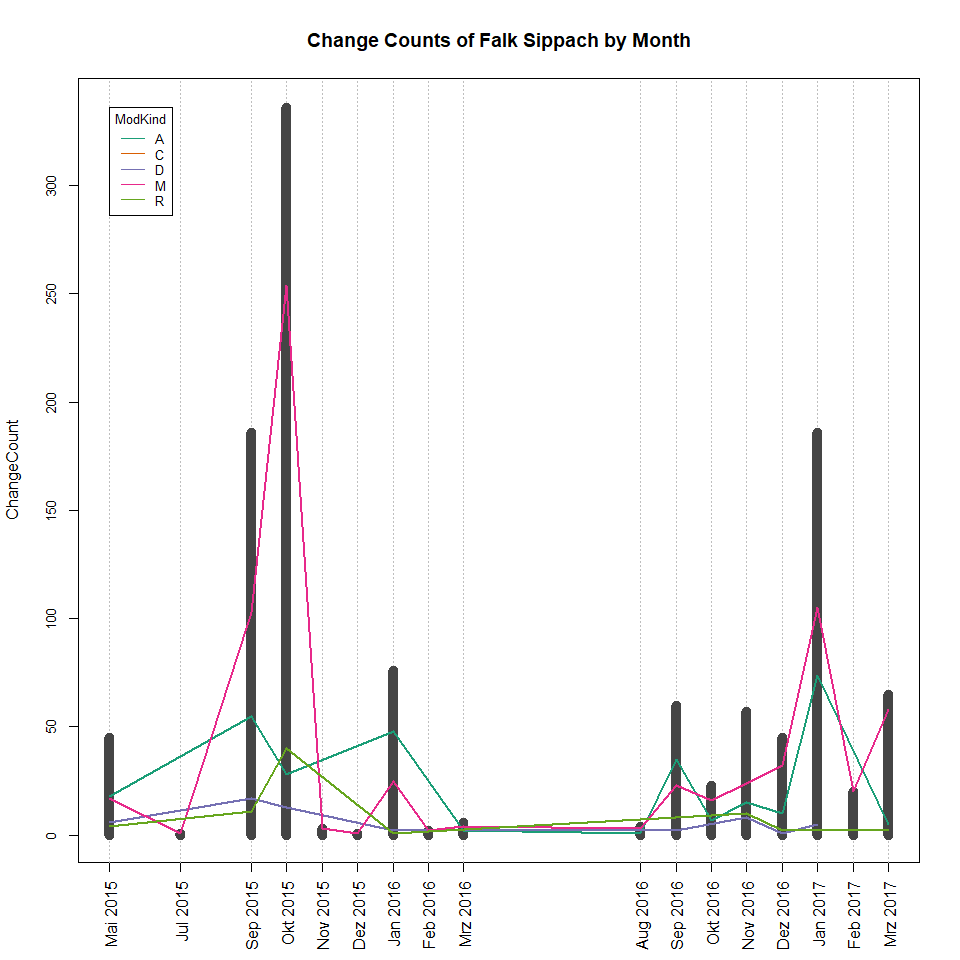
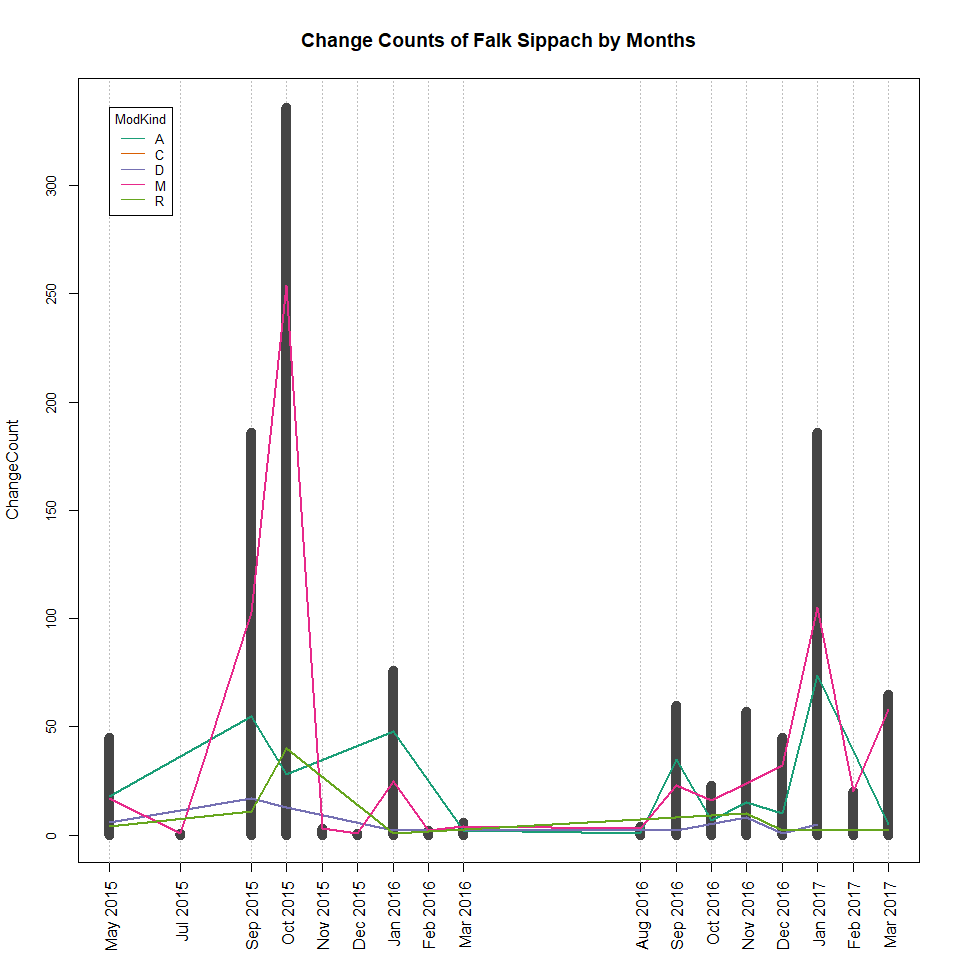
Update text and pictures

diff --git a/analysis/dukecon/Repository_Analysis.md b/analysis/dukecon/Repository_Analysis.md
@@ -12,13 +12,13 @@ Git-Repository Analysis
     -   [Instructions](#instructions)
 -   [Analysis](#analysis)
     -   [Changes in Repository](#changes-in-repository)
-        -   [Change Count by Modification Kind](#change-count-by-modification-kind)
-        -   [Change Count by Modification Kind and Authors](#change-count-by-modification-kind-and-authors)
+        -   [Change Count by Modification Kinds](#change-count-by-modification-kinds)
+        -   [Change Count by Modification Kinds and Authors](#change-count-by-modification-kinds-and-authors)
     -   [Changes by Time](#changes-by-time)
-        -   [Change Count by Month](#change-count-by-month)
-        -   [Change Count by Month and Authors](#change-count-by-month-and-authors)
+        -   [Change Count by Months](#change-count-by-months)
+        -   [Change Count by Months and Authors](#change-count-by-months-and-authors)
     -   [Changes by File Type](#changes-by-file-type)
-        -   [Change Count by File Type](#change-count-by-file-type)
+        -   [Change Count by File Types](#change-count-by-file-types)
         -   [Change Count by File Type and Authors](#change-count-by-file-type-and-authors)
     -   [Ownership of Repository](#ownership-of-repository)
         -   [Ownership of Repository by File Types and Authors](#ownership-of-repository-by-file-types-and-authors)
@@ -26,8 +26,8 @@ Git-Repository Analysis
         -   [Ownership of Repository by Files](#ownership-of-repository-by-files)
     -   [Most used Words](#most-used-words)
         -   [Word Cloud of Repository](#word-cloud-of-repository)
-        -   [Word Cloud of Repository by File Type](#word-cloud-of-repository-by-file-type)
-        -   [Word Cloud of Repository by Author](#word-cloud-of-repository-by-author)
+        -   [Word Cloud of Repository by File Types](#word-cloud-of-repository-by-file-types)
+        -   [Word Cloud of Repository by Authors](#word-cloud-of-repository-by-authors)
 -   [Conclusion](#conclusion)
 
 Introduction
@@ -50,7 +50,7 @@ Introduction
 
 In dieser Arbeit befassen wir uns mit der Analyse eines beispielhaften Git-Repositories.
 
-Konkret handelt es sich um ein Repository für ein Konferenz-Tool, mit dem Besuchern die Möglichkeit gegeben wird, Veranstaltungen anzusehen und sich diese vormerken zu können. Wir haben uns für dieses Repository entschieden, da es sich vom Umfang her gut für das Projekt eignet und wir die Anwendung und einige der beteiligten Autoren persönlich kennen.
+Konkret handelt es sich um ein Repository für ein Konferenz-Tool, mit dem Besuchern die Möglichkeit gegeben wird, Veranstaltungen anzusehen und sich diese vormerken zu können. Wir haben uns für dieses Repository entschieden, da es sich vom Umfang her gut für das Projekt eignet und wir die Anwendung sowie einige der beteiligten Autoren persönlich kennen.
 
 ### Goal
 
@@ -106,7 +106,7 @@ Um ein Git-Repository untersuchen zu können, werden bestimmte Tools benötigt. 
 </build>
 ```
 
--   Hiernach müssen folgende Maven-Befehle aufgerufen werden, um den lokalen Neo4j-Server zu starten:
+-   Hiernach müssen folgende Maven-Befehle aufgerufen werden, um den jQAssistant-Scan und danach den lokalen Neo4j-Server zu starten:
 
 <!-- -->
 
@@ -134,9 +134,9 @@ Git kodiert verschiedene Modifikationstypen von Änderungen an Dateien als Buchs
 
 ### Changes in Repository
 
-#### Change Count by Modification Kind
+#### Change Count by Modification Kinds
 
-Zuerst verschaffen wir uns einen allgemeinen Überblick über das Repository. Dafür bietet es sich an, das Vorkommen aller Änderung im Verhältnis zueinander zu visualisieren.
+Zuerst verschaffen wir uns einen allgemeinen Überblick über das Repository. Dafür bietet es sich an, das Vorkommen aller Änderungen im Verhältnis zueinander zu visualisieren.
 
 -   Cypher-Query:
 
@@ -160,14 +160,14 @@ labels <- paste(labels, " (", slices, " | ", percentage, "%)", sep="")
 colors <- brewer.pal(max(as.numeric(csv$ModificationKind)), palette)
 
 # # Display plot
-pie(slices, labels=labels, col=colors, main="Change Count by Modification Kind")
+pie(slices, labels=labels, col=colors, main="Change Count by Modification Kinds")
 ```
 
-![](Repository_Analysis_files/figure-markdown_github/change-count-by-modification-kind-1.png)
+![](Repository_Analysis_files/figure-markdown_github/change-count-by-modification-kinds-1.png)
 
-Man sieht, dass das Repository hauptsächlich modifiziert (M) wurde und auch vieles (wahrscheinlich am Anfang) zum Repository hinzugekommen ist (A). Das Repository hat aber nur sehr wenige gelöschte (D) oder kopierte Elemente (C) erlebt. Das deutet darauf hin, dass nicht viel "copy-pasted" wurde und es auch nicht an einer bestimmten Stelle im Projekte zu einem kompletten Neubau von Applikationsteile kam, bei dem man viel Code verworfen hat. Somit könnte man das geringe Vorkommen von (D) und (C) als Qualitätsmerkmale interpretieren.
+Man sieht, dass das Repository hauptsächlich modifiziert (M) wurde und auch vieles (wahrscheinlich am Anfang) zum Repository hinzugekommen ist (A). Das Repository hat aber nur sehr wenige gelöschte (D) oder kopierte Elemente (C) erlebt. Das deutet darauf hin, dass nicht viel "copy-pasted" wurde und es auch nicht an einer bestimmten Stelle im Projekt zu einem kompletten Neubau von Applikationsteilen kam, bei dem man viel Code verworfen hat. Somit könnte man das geringe Vorkommen von (D) und (C) als Qualitätsmerkmale interpretieren.
 
-#### Change Count by Modification Kind and Authors
+#### Change Count by Modification Kinds and Authors
 
 Um weitere Informationen aus den Änderungstypen zu ziehen, betrachten wir, welche Personen für welche Änderungstypen hauptsächlich verantwortlich sind.
 
@@ -196,12 +196,12 @@ subset <- table[table(csv$Author)>percentage,]
 colors <- brewer.pal(max(as.numeric(csv$ModificationKind)), palette)
 
 # # Display plot
-mosaicplot(subset, col=colors, las=3, ylab="ModificationKind", main="Change Count by Modification Kind and Authors", cex.axis=0.8, mar=c(0,0,0,0))
+mosaicplot(subset, col=colors, las=3, ylab="ModificationKind", main="Change Count by Modification Kinds and Authors", cex.axis=0.8, mar=c(0,0,0,0))
 ```
 
-![](Repository_Analysis_files/figure-markdown_github/change-count-by-modification-kind-and-author-1.png)
+![](Repository_Analysis_files/figure-markdown_github/change-count-by-modification-kinds-and-authors-1.png)
 
-Man kann erkennen, dass Dirk Mahler hauptsächlich Dateien hinzugefügt und kaum welche verändert hat, wohingegen z.B. Christopher Dutz sehr viel modifiziert hat.
+Man kann erkennen, dass Dirk Mahler hauptsächlich Dateien hinzugefügt (A) und kaum welche verändert (M) hat, wohingegen z.B. Christopher Dutz sehr viel modifiziert (M) hat.
 
 Das lässt darauf schließen, dass Dirk Mahler ggf. für das Hinzufügen von Applikationsteilen verantwortlich war, aber nicht an der Maintenance beteiligt ist. Außerdem fällt auch auf, dass der Entwickler mit der Kennung annam002 für viel Refactoring verantwortlich ist, da er einen großen Anteil an Renames (R) und Modifikationen (M) hat.
 
@@ -209,7 +209,7 @@ Die Breite der einzelnen Spalten gibt darüber hinaus Auskunft über die gesamte
 
 ### Changes by Time
 
-#### Change Count by Month
+#### Change Count by Months
 
 Um aus den Änderungstypen mehr relevante Informationen für das Repository erhalten zu können, setzen wir diese in zeitliche Relation. Dadurch erfährt man deutlich mehr über den Aufbau des Projektes. Es wird eine Art "Profil" erstellt.
 
@@ -236,7 +236,7 @@ xrange <- range(as.yearmon(subset1$CommitDate))
 yrange <- range(subset1$ChangeCount)
 
 # # Setup plot
-plot(xrange, yrange, type="n", xlab="", ylab="ChangeCount", main="Change Count by Month", cex.axis=0.8, mar=c(0,3.8,1.5,0), xaxt='n')
+plot(xrange, yrange, type="n", xlab="", ylab="ChangeCount", main="Change Count by Months", cex.axis=0.8, mar=c(0,3.8,1.5,0), xaxt='n')
 axis(side=1, las=2, labels=c(as.yearmon(csv$CommitDate)), at=c(as.yearmon(csv$CommitDate)))
 abline(v=(c(as.yearmon(csv$CommitDate))), col="grey", lty="dotted")
 colors <- brewer.pal(max(as.numeric(csv$ModificationKind)), palette)
@@ -253,15 +253,15 @@ for (i in 1:max(numModificationKind)) {
 legend(xrange[1], yrange[2], unique(csv$ModificationKind), cex=0.8, col=colors, lty=1, title="ModKind")
 ```
 
-![](Repository_Analysis_files/figure-markdown_github/change-count-by-month-1.png)
+![](Repository_Analysis_files/figure-markdown_github/change-count-by-months-1.png)
 
-Man kann erkennen, dass das Projekt im Mai 2015 sehr klein angefangen hat. Es gab kaum Änderungen in Relation zu späteren Phasen im Projekt. Für fast ein halbes Jahr wurde das Projekt sogar scheinbar kaum angefasst, bis es dann im Sep/Okt 2015 zu einer unglaublich großen Menge an Modifikationen (M) und neuen Dateien (A) kam. Wahrscheinlich hängt dieser Verlauf mit einem großen Release zusammen. Gelöschte Dateien (D) sind sehr gering geblieben, was auf eine gesunde Weiterentwicklung hindeutet, statt auf einen Rewrite des Codes.
+Man kann erkennen, dass das Projekt im Mai 2015 sehr klein angefangen hat. Es gab kaum Änderungen in Relation zu späteren Phasen im Projekt. Für fast ein halbes Jahr wurde das Projekt sogar scheinbar kaum angefasst, bis es dann im Sep/Okt 2015 zu einer unglaublich großen Menge an Modifikationen (M) und neuen Dateien (A) kam. Wahrscheinlich hängt dieser Verlauf mit einem großen Release zusammen. Gelöschte Dateien (D) sind sehr gering geblieben, was auf eine gesunde Weiterentwicklung, statt auf einen Rewrite des Codes hindeutet.
 
-Ähnlich viele Aktivitäten sind im März 2017 zu sehen. In diesem Zeitraum fand eine größere Konferenz statt, in der die Anwendung von vielen Besuchern genutzt wurde. Vermutlich wurden kurzfristig Probleme behoben.
+Ähnlich viele Aktivitäten sind Anfang 2017 zu sehen. In diesem Zeitraum fand eine größere Konferenz statt, in der die Anwendung von vielen Besuchern genutzt wurde. Vermutlich wurden kurzfristig Probleme behoben und neue Features bereitgestellt.
 
 In der Geschichte von Projekten lassen sich immer wieder solche Sprünge feststellen. Teilweise verstreicht viel Zeit zwischen größeren Entwicklungsphasen. Da es sich bei dem betrachteten Repository um einen Eventplaner für Conventions handelt, liegt es nahe, dass immer vor größeren Veranstaltungen viel in die Applikation investiert wird.
 
-#### Change Count by Month and Authors
+#### Change Count by Months and Authors
 
 Interessant ist die Betrachtung dieser zeitlichen Entwicklung verteilt auf die einzelnen Entwickler. Beispielhaft wählen wir für den folgenden Graphen den Haupt-Entwickler des Projektes.
 
@@ -290,7 +290,7 @@ xrange <- range(as.yearmon(subset1$CommitDate))
 yrange <- range(subset1$ChangeCount)
 
 # # Setup plot
-plot(xrange, yrange, type="n", xlab="", ylab="ChangeCount", main="Change Counts of Falk Sippach by Month", cex.axis=0.8, mar=c(0,3.8,1.5,0), xaxt='n')
+plot(xrange, yrange, type="n", xlab="", ylab="ChangeCount", main="Change Counts of Falk Sippach by Months", cex.axis=0.8, mar=c(0,3.8,1.5,0), xaxt='n')
 axis(side=1, las=2, labels=c(as.yearmon(subset1$CommitDate)), at=c(as.yearmon(subset1$CommitDate)))
 abline(v=(c(as.yearmon(subset1$CommitDate))), col="grey", lty="dotted")
 colors <- brewer.pal(max(as.numeric(csv$ModificationKind)), palette)
@@ -311,11 +311,11 @@ legend(xrange[1], yrange[2], c("A", "C", "D", "M", "R"), cex=0.8, col=colors, lt
 
 Man sieht, dass Falk Sippach vor allem in der o.g. großen Änderungswelle im Sep/Okt 2015 viel mitgewirkt hat. Sogar fast komplett alleine. Daraufhin hat er sich nach dem Jan 2016 größtenteils aus dem Projekt zurückgezogen.
 
-Da die Änderungen in der vorher betrachteten Grafik in der Zeit nicht aufhören, sieht man auch, dass andere Entwickler in der Zeit weiterentwickelt haben. Falk Sippach scheint einen Grundstein in dem Projekt gelegt zu haben, mit dem die anderen Entwickler weiterarbeiten.
+Da die Änderungen in der vorher betrachteten Grafik in der Zeit nicht aufhören, sieht man auch, dass andere Entwickler in der Zeit weiterentwickelt haben. Falk Sippach scheint einen Grundstein in dem Projekt gelegt zu haben, mit dem die anderen Entwickler weitergearbeitet haben.
 
 ### Changes by File Type
 
-#### Change Count by File Type
+#### Change Count by File Types
 
 Neben der zeitlichen Betrachtung des Projektes gibt eine Übersicht der "beteiligten" Dateitypen ebenfalls einen hohen Informationsgehalt zum Profil.
 
@@ -345,7 +345,7 @@ ggplot(csv, aes(x=reorder(FileType, ChangeCount), y=ChangeCount)) +
   geom_text(aes(label=ChangeCount), vjust=0.5, hjust=-0.5, size=3) +
   theme(axis.title=element_text(size=7.5,face="bold"), title=element_text(size=7.5,face="bold")) +
   scale_y_continuous(limits=c(0, 1050), expand=c(0, 0)) +
-  labs(x="FileType", title="Change Count by File Type")
+  labs(x="FileType", title="Change Count by File Types")
 ```
 
 ![](Repository_Analysis_files/figure-markdown_github/change-count-by-file-type-1.png)
@@ -392,19 +392,19 @@ plot1 <- ggplot(subset1, aes(x=factor(FileType))) +
   geom_text(stat='count', aes(label=..count..), hjust=-0.5, size=2, angle=90) +
   scale_y_continuous(limits=c(0, ymax1), expand=c(0, 0)) +
   theme(axis.text.x=element_text(angle=90, hjust=1, vjust=0.30), axis.title=element_text(size=7.5,face="bold"), title=element_text(size=7.5,face="bold")) +
-  labs(x="", y="ChangeCount", title="Change Counts of Falk Sippach by File Type")
+  labs(x="", y="ChangeCount", title="Change Counts of Falk Sippach by File Types")
 
 plot2 <- ggplot(subset2, aes(x=factor(FileType))) +
   geom_bar(fill=getPalette(colorCount2)) +
   geom_text(stat='count', aes(label=..count..), hjust=-0.5, size=2, angle=90) +
   scale_y_continuous(limits=c(0, ymax2), expand=c(0, 0)) +
   theme(axis.text.x=element_text(angle=90, hjust=1, vjust=0.30), axis.title=element_text(size=7.5,face="bold"), title=element_text(size=7.5,face="bold")) +
-  labs(x="", y="ChangeCount", title="Change Counts of Alexander Schwartz by File Type")
+  labs(x="", y="ChangeCount", title="Change Counts of Alexander Schwartz by File Types")
 
 grid.arrange(plot1, plot2, nrow=2)
 ```
 
-![](Repository_Analysis_files/figure-markdown_github/change-counts-of-author-by-file-type-1.png)
+![](Repository_Analysis_files/figure-markdown_github/change-counts-of-authors-by-file-types-1.png)
 
 Beide Autoren konzentrieren sich hauptsächlich auf Java- und Groovy-Dateien, jedoch im unterschiedlichen Maße. Die Grafiken lassen vermuten, dass Falk Sippach eher ein Groovy- und Alexander Schwartz eher ein Java-Experte ist. Allerdings fehlt hier die Normalisierung bzw. Relativierung, um genaue Aussagen über ihre Rollen im Projekt treffen zu können. Im kommenden Abschnitt wird näher darauf eingegangen.
 
@@ -414,7 +414,7 @@ Anhand der Change Counts der Autoren kann man diesen auch ein relatives Maß am 
 
 #### Ownership of Repository by File Types and Authors
 
-Beispielsweise ist es möglich, die Dateitypen und ihre jeweilige Zugehörigkeit zu einem bestimmten Autor zu betrachten. Das haben wir vorher schon gemacht, aber ohne eine Normalisierung wie hier war das Maß nicht allzu aussagekräftig.
+Beispielsweise ist es möglich, die Dateitypen und ihre jeweilige Zugehörigkeit zu einem bestimmten Autor zu betrachten. Das haben wir vorher schon gemacht, aber ohne eine Normalisierung wie hier war das Maß nicht allzu aussagekräftig. Wir betrachten erneut die beiden Haupt-Entwickler.
 
 -   Cypher-Query:
 
@@ -469,7 +469,7 @@ Anhand der beiden Grafiken kann man darüber hinaus erkennen, dass Alexander Sch
 
 #### Ownership of Repository by Packages
 
-Das gleiche Prinzip lässt sich auch auf die Ordnerstrukturen im Projekt anwenden. Für einen besseren Überblick betrachten wir nur die ersten 25 Packages des Repositories, die einen Änderungsanteil von mindestens 1% am gesamten Repositories haben.
+Das gleiche Prinzip lässt sich auch auf die Ordnerstrukturen im Projekt anwenden. Für einen besseren Überblick betrachten wir nur die ersten 25 Packages des Repositories, die einen Änderungsanteil von mindestens 1% am gesamten Repository haben.
 
 -   Cypher-Query:
 
@@ -538,7 +538,7 @@ Wenn also neue Entwickler ins Projekt kommen oder anderweitig Probleme im Code e
 
 #### Ownership of Repository by Files
 
-Das Prinzip gilt auch für einzelne Dateien. Es gibt meistens in Projekten bestimmte Kern-Dateien, die besonders häufig geändert werden und essenziell für das Projekt sind. Klassischerweise gehören dazu Elemente wie beispielsweise die Front-Page, Start-Klassen und große Konfigurationsdateien. Auch hier beschränken wir uns auf die ersten 25 Dateien mit höchsten Repository-Anteil.
+Das Prinzip gilt auch für einzelne Dateien. Es gibt meistens in Projekten bestimmte Kern-Dateien, die besonders häufig geändert werden und essenziell für das Projekt sind. Klassischerweise gehören dazu Elemente wie beispielsweise die Front-Page, Start-Klassen und große Konfigurationsdateien. Auch hier beschränken wir uns auf die ersten 25 Dateien mit höchstem Repository-Anteil.
 
 -   Cypher-Query:
 
@@ -611,7 +611,7 @@ Ein zwar nicht allzu genaues, aber dennoch interessantes Maß sind die Vorkommen
 
 #### Word Cloud of Repository
 
-In der folgenden Grafik lassen sich die häufigen verwendeten Wörter innerhalb der Commit-Messages des gesamten Repositories erkennen. Wir ersetzen bereis durch die Cypher-Query uninteressante Wörter wie "of" oder "for" und haben erst danach die Möglichkeit entdeckt, dass diese auch mithilfe von R herausgefiltert werden können. Sicherheitshalber rufen wir diese Funktion in R noch einmal auf. Auf die Umwandlung der Wörter auf ihren Wortstamm verzichten wir, da es im Test zu falschen Umformungen gekommen ist.
+In der folgenden Grafik lassen sich die häufigen verwendeten Wörter innerhalb der Commit-Messages des gesamten Repositories erkennen. Wir ersetzen bereis durch die Cypher-Query uninteressante Wörter wie "of" oder "for".
 
 -   Cypher-Query:
 
@@ -662,11 +662,11 @@ title("Commit Message by most used Words", outer=TRUE)
 
 ![](Repository_Analysis_files/figure-markdown_github/commit-massage-by-most-used-words-1.png)
 
-Man sieht, dass hauptsächlich die Wörter "added", "merge" und "dukecon" (der Name des Repositories) vorkommen. Das ist im Allgemeinen normal für ein Projekt und die Vorkommen von "merge" deuten lediglich auf die Integrierung vieler Open-Source-Kontributionen hin. "Fix" und "Fixed" kommt zwar öfter vor, ist aber nicht auffällig häufig.
+Man sieht, dass hauptsächlich die Wörter "added", "merge" und "dukecon" (der Name des Repositorys) vorkommen. Das ist im Allgemeinen normal für ein Projekt und die Vorkommen von "merge" deuten lediglich auf die Integrierung vieler Open-Source-Kontributionen hin. "Fix" und "Fixed" kommt zwar öfter vor, ist aber nicht auffällig häufig.
 
-#### Word Cloud of Repository by File Type
+#### Word Cloud of Repository by File Types
 
-Wenn man sich die konkreten Dateitypen anguckt, lassen sich möglicherweise typische Muster erkennen. In dieser Arbeit betrachten wir in den folgenden Wordclouds nur die beiden Dateitypen Java und XML.
+Wenn man sich die konkreten Dateitypen anguckt, lassen sich möglicherweise typische Muster erkennen. Folgend betrachten wir beispielsweise die Dateitypen Java und XML.
 
 -   Cypher-Query:
 
@@ -720,18 +720,18 @@ data$xml <- tm_map(data$xml, removeWords, stopwords("english"))
 par(mfrow=c(1,2), oma=c(0,0,2,0))
 wordcloud(data$java, scale=c(5,0.5), max.words=100, min.freq=2, random.order=FALSE, rot.per=0.35, use.r.layout=FALSE, colors=brewer.pal(8, palette))
 wordcloud(data$xml, scale=c(5,0.5), max.words=100, min.freq=2, random.order=FALSE, rot.per=0.35, use.r.layout=FALSE, colors=brewer.pal(8, palette))
-title("Commit Message by most used Words by File Type Java (left) and XML (right)", outer=TRUE)
+title("Commit Message by most used Words by File Types Java (left) and XML (right)", outer=TRUE)
 ```
 
-![](Repository_Analysis_files/figure-markdown_github/commit-message-by-most-used-words-file-type-1.png)
+![](Repository_Analysis_files/figure-markdown_github/commit-message-by-most-used-words-by-file-types-1.png)
 
-Bei der Betrachtung der beiden Wordclouds erhalten wir ein unerwartetes Ergebnis: Die genutzten Wörter in den Commit-Messages der beiden Dateitypen sind überraschend ähnlich.
+Bei der Betrachtung der beiden Wordclouds erhalten wir ein Ergebnis, welches wir nicht erwartet hätten: Die genutzten Wörter in den Commit-Messages der beiden Dateitypen sind überraschend ähnlich.
 
-Bei beiden häufigen sich vor allem die Wörter "added" und "merge". Unterschiede zeichnen sich dennoch bei einigen wenigen häufigen Wörtern ab. So fällt im Kontext von Java-Dateien im Gegensatz zu XML-Dateien beispielsweise nicht die Wörter "dependency" und "plugin". Umgekehrt finden wir die Wörter "conference" und "rest" nicht unter den häufigen Wörtern bei Commit-Messages im Zusammenhang mit XML-Dateien.
+Bei beiden häufen sich vor allem die Wörter "added" und "merge". Unterschiede zeichnen sich dennoch bei einigen wenigen häufigen Wörtern ab. So fallen im Kontext von Java-Dateien im Gegensatz zu XML-Dateien beispielsweise nicht die Wörter "dependency" und "plugin", die wahrscheinlich hauptsächlich in der pom.xml vorkommen. Umgekehrt finden wir die Wörter "conference" und "rest" nicht unter den häufigen Wörtern bei Commit-Messages im Zusammenhang mit XML-Dateien, weil sie bestimmte "Domänen" im Code beschreiben, die in XML-Dateien meist keine Rolle spielen.
 
-#### Word Cloud of Repository by Author
+#### Word Cloud of Repository by Authors
 
-Der Vergleich der Wordclouds für Dateitypen war eher unbefriedigend. Aus diesem Grund vergleichen wir in diesem Abschnitt Wordclouds der Commit-Messages aufgeteilt nach Autoren. Wie auch zuvor wählen wir die beiden Entwickler mit dem größten Änderungs-Anteil an dem Repository.
+Da der Vergleich der Wordclouds für Dateitypen eher unbefriedigend war, vergleichen wir als nächstes die Commit-Messages aufgeteilt nach Autoren. Wie auch zuvor wählen wir die beiden Entwickler mit dem größten Änderungs-Anteil an dem Repository.
 
 -   Cypher-Query:
 
@@ -787,18 +787,18 @@ wordcloud(data$schwartz, scale=c(5,0.5), max.words=100, min.freq=2, random.order
 title("Commit Message by most used Words by Falk Sippach (left) and Alexander Schwartz (right)", outer=TRUE)
 ```
 
-![](Repository_Analysis_files/figure-markdown_github/commit-message-by-most-used-words-author-1.png)
+![](Repository_Analysis_files/figure-markdown_github/commit-message-by-most-used-words-by-authors-1.png)
 
-Bei dem Vergleich dieser beiden Wordclouds finden wir deutlich mehr Unterschiede. Falk Sippach beschäftigt sich zum großen Teil mit dem Ändern und Fixen des Codes, die scheinbar besonders mit der Web-Applikation selbst zu tun haben, da häufig die Wörter "added" und "fixed" sowie "dukecon" und "conference" fallen.
+Bei dem Vergleich dieser beiden Wordclouds finden wir deutlich mehr Unterschiede. Falk Sippach beschäftigt sich zum großen Teil mit dem Ändern und Fixen des Codes, die scheinbar besonders mit der Web-Applikation selbst zu tun haben. Er verwendet häufig die Wörter "added" und "fixed" sowie "dukecon" und "conference".
 
-Alexander Schwartz hingegen konzentriert sich offenbar auf die Weiterentwicklung, Tests und Merges, da häufig die Wörter "develop", "testing" und "merge" fallen. Er scheint auch einen Schwerpunkt auf Firefox und GUI zu legen.
+Alexander Schwartz hingegen konzentriert sich offenbar auf organisatorische Aufgaben im Repository, wie das Mergen von verschiedenen Braches, da häufig die Wörter "develop" und "merge" fallen.
 
 Die Tätigkeitenfelder der beiden Entwickler unterscheiden sich stark voneinander. Der Vergleich der Wordclouds und der vorher gezeigten Grafik über den Besitz bestimmter Dateien bestätigt das: Alexander Schwartz hat einen Besitz von etwa 70% an der StartPage.java-Klasse. Vermutlich fallen aus diesem Grund die Wörter "firefox" und "gui" besonders häufig.
 
 Conclusion
 ----------
 
-In dieser Arbeit haben wir einige unterschiedliche Wege genommen, um das gewählte Repository zu untersuchen. Es gibt natürlich noch weitere interessante Möglichkeiten, nützliche Informationen aus dem Repository zu gewinnen. Sie würden den Rahmen dieser Arbeit jedoch sprengen. Gerne würden wir besonders aufschlussreiche Merkmale wie beispielsweise den Anteil an Lines of Code je Entwickler oder mögliche versteckte Abhängigkeiten in Form von gemeinsam eingecheckten Dateien betrachten. Die Auswertung dieser Merkmale würde jedoch vermutlich weitere Tools erfordern oder lassen sind mithilfe von R nur schwer visualisieren. Aus diesen Gründen sind sie aus unserem Abfragenkatalog herausgefallen.
+In dieser Arbeit haben wir einige unterschiedliche Wege genommen, um das gewählte Repository zu untersuchen. Es gibt natürlich noch weitere interessante Möglichkeiten, nützliche Informationen aus dem Repository zu gewinnen. Sie würden den Rahmen dieser Arbeit jedoch sprengen. Gerne würden wir besonders aufschlussreiche Merkmale wie beispielsweise den Anteil an Lines of Code je Entwickler oder mögliche versteckte Abhängigkeiten in Form von gemeinsam eingecheckten Dateien betrachten. Die Auswertung dieser Merkmale würde jedoch vermutlich weitere Tools erfordern oder lassen sich mithilfe von R nur schwer visualisieren. Aus diesen Gründen sind sie aus unserem Abfragenkatalog herausgefallen.
 
 Wir sind mit den gewählten Betrachtungen und den damit gewonnenen Erkenntnissen jedoch zufrieden. Es lassen sich Merkmale herausarbeiten, die auf die Qualität des Git-Repositories schließen. Besonders Punkte wie der Besitz von Packages, Dateien oder Dateitypen geben Aufschluss über die Entwicklungsschwerpunkte der Autoren, die sowohl auf Chancen als auch auf Risiken hindeuten.
 
